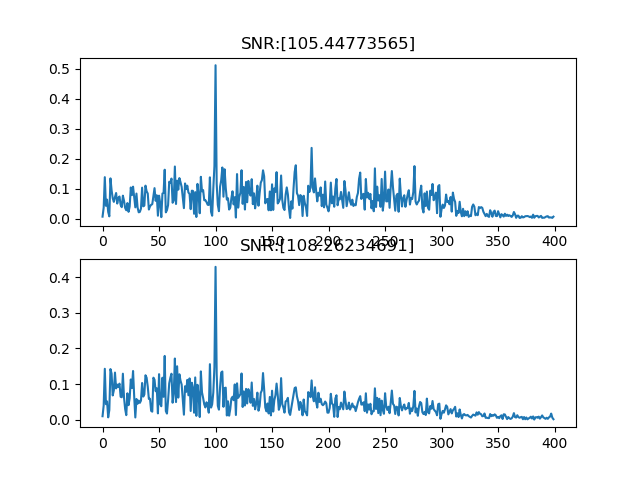
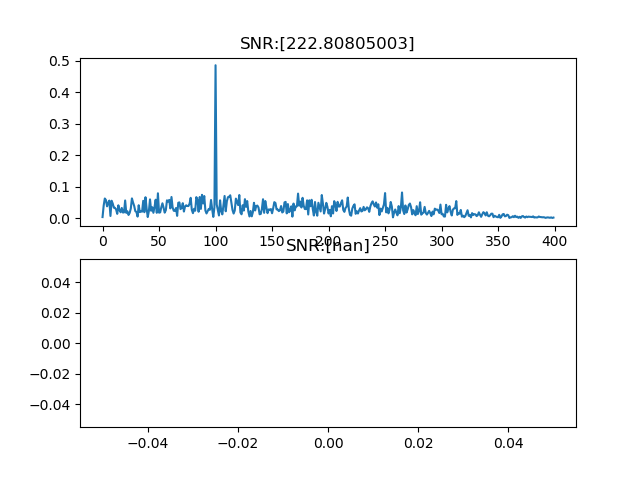
1110

diff --git a/demo.py b/demo.py
@@ -5,7 +5,7 @@ from scipy.optimize import minimize_scalar
 from mpl_toolkits.mplot3d import Axes3D
 from sko.ASFA import ASFA
 import funs
-DUR = 60*20
+DUR = 60*1
 FS = 10000
 N = int(DUR * FS)
 t = np.arange(N) / FS
@@ -14,11 +14,31 @@ FP = 300
 N_VIEW = 8
 D = 8 * 40
 A = 0.5
-a = 1
+a = 10000
 b = a
-SNR = -40
+SNR = -20
 W = 10000
 S = 10000
+
+
+def srU(a,b,x):
+    return -a*x + b * x**3
+
+def srDuf(a,b,k,h,sig,f):
+    y = np.zeros(len(sig))
+    x = np.zeros(len(sig))
+    for i in range(len(y) - 1):
+        K1 = h * y[i]
+        L1 = h * (-k * y[i] - f(a,b,x[i]) + sig[i])
+        K2 = h * (y[i] + L1 / 2)
+        L2 = h * (-k * (y[i] + L1 / 2) - f(a,b,x[i] + K1 / 2) + sig[i])
+        K3 = h * (y[i] + L2 / 2)
+        L3 = h * (-k * (y[i] + L2 / 2) - f(a,b,x[i] + K2 / 2) + sig[i + 1])
+        K4 = h * (y[i] + L3)
+        L4 = h * (-k * (y[i] + L3) - f(a,b,x[i] + K3) + sig[i + 1])
+        x[i + 1] = x[i] + 1 / 6 * (K1 + 2 * K2 + 2 * K3 + K4)
+        y[i + 1] = y[i] + 1 / 6 * (L1 + 2 * L2 + 2 * L3 + L4)
+    return x
 
 def srFun(a,b,h,sig):
 
@@ -41,7 +61,7 @@ def srFunMine(a,b,h,sig):
 def getSig(t,F0,FP,FS,SNR):
     x0 = np.sin(2*np.pi*F0*t)
     ns = np.random.randn(N)
-    ns = funs.butter_lowpass_filter(ns,10,FP,FS)
+    ns = funs.butter_filter(ns,10,FP,FS,'lowpass')
     ns = ns - np.mean(ns)
 
     sigPower = 1 / N * np.sum(x0 * x0)
@@ -120,21 +140,26 @@ def selIMF(imfs,sig):
 def snr(x,n):
     return 10 * np.log10(np.sum(x**2) / np.sum(n ** 2))
 
+
+def lineMap(mi,mx,sig):
+    return (sig - np.min(sig)) / (np.max(sig) - np.min(sig)) * (mx - mi) + mi
+
+
 def test():
     x0, n0 = getSig(t, F0, FP, FS, SNR)
-    # x0 = A * np.sin(2*np.pi*F0*t)
-    # n0 =  np.sqrt(D * 2) * np.random.rand(len(x0))
-    # n0 = n0 - np.mean(n0)
-
-    # res = optimize.minimize(goalFuncPSO,(a,b),bounds=((.001,10),(.001,10)))
-    # print(res)
-    # print(goalFunc((a,b),FS,x0,n0))
-    # sig = np.random.randn(len(t)) * 100#np.sin(2 * np.pi * F0 * t) * 1000
     sig = n0 + x0
+    
+    # sig = funs.butter_filter(sig,4,(60,150),FS,'bandpass')
     sig = getAcmSig(sig,W,S)
+    
     # sig = sig / np.std(sig) * 2
-    sig = np.sqrt(a ** 3 / b) / np.std(sig) * sig
+    # sig = lineMap(-1,1,sig) * np.sqrt(4 * a ** 3 / b) * 100000000
+    sig = lineMap(-1,1,sig) * np.sqrt(4 * a ** 3 / b / 27) * 40
+    sig = sig - np.mean(sig)
+    # sig = sig * np.sqrt(4 * a ** 3 / b) #np.sqrt(a ** 3 / b) / np.std(sig) * sig *3
+    # sr = srDuf(a,b,0.01,1/FS,sig,srU)
     sr = srFun(a,b,1/FS,sig)
+    # sr = getAcmSig(sr,W,S)
     # showInT(sig, FS)
     # showInF(sig, 0.2, FS)
 
@@ -193,20 +218,21 @@ def exploreWithA():
     sig = getAcmSig(sig,W,S)
     
     gStart = 1
-    gStop = 51
-    gStep = 2
+    gStop = 41
+    gStep = .5
     gS = np.arange(gStart,gStop,gStep)
     
     aStart = 1
-    aStop = 601
-    aStep = 20
+    aStop = 701
+    aStep = 10
     aS = np.arange(aStart,aStop,aStep)
     rec = np.zeros((len(aS),len(gS)))
     for ai in range(len(aS)):
         for gi in range(len(gS)):
             aa = aS[ai]
             gg = gS[gi]
-            sig1 = np.sqrt(aa ** 3 / aa)  * sig / np.std(sig) * gg
+            sig1 = lineMap(-1,1,sig) * np.sqrt(4 * aa ** 3 / aa) * gg
+            # sig1 = np.sqrt(aa ** 3 / aa)  * sig / np.std(sig) * gg
             sr = srFun(aa,aa,1 / FS,sig1)
             rec[ai][gi] = (float(snrInF(sr,F0,FS)))
             # rec.append(float(snrInF(sr,F0,FS)))
@@ -230,7 +256,7 @@ def exploreWithA():
     # plt.plot(aS,rec)
     # plt.plot(aS,np.ones(len(rec)) * float(snrInF(sig,F0,FS)))
     # plt.title("Max Loc:{},Max Gain:{}".format(aS[maxL],rec[maxL] / float(snrInF(sig,F0,FS))))
-    # plt.show()
+    plt.show()
         
 if __name__ == "__main__":
-    exploreWithA()
+    test()

diff --git a/dynamicPlot.py b/dynamicPlot.py
@@ -1,0 +1,36 @@
+import matplotlib.pyplot as plt
+import matplotlib.font_manager as font_manager
+import numpy as np
+ 
+POINTS = 100
+sin_list = [0] * POINTS
+indx = 0
+ 
+fig, ax = plt.subplots()
+ax.set_ylim([-2, 2])
+ax.set_xlim([0, POINTS])
+ax.set_autoscale_on(False)
+ax.set_xticks(range(0, 100, 10))
+ax.set_yticks(range(-2, 3, 1))
+ax.grid(True)
+ 
+line_sin, = ax.plot(range(POINTS), sin_list, label='Sin() output', color='cornflowerblue')
+ax.legend(loc='upper center', ncol=4, prop=font_manager.FontProperties(size=10))
+ 
+ 
+def sin_output(ax):
+    global indx, sin_list, line_sin
+    if indx == 20:
+        indx = 0
+    indx += 1
+ 
+    sin_list = sin_list[1:] + [np.sin((indx / 10) * np.pi)]
+    line_sin.set_ydata(sin_list)
+    ax.draw_artist(line_sin)
+    ax.figure.canvas.draw()
+ 
+ 
+timer = fig.canvas.new_timer(interval=100)
+timer.add_callback(sin_output, ax)
+timer.start()
+plt.show()

diff --git a/funs.py b/funs.py
@@ -15,8 +15,13 @@ def choose_windows(name,N):
 
 
 
-def butter_lowpass_filter(data, order, cutoff, FS):
-    b,a = butter(order,2 * cutoff / FS,'low')
+def butter_filter(data, order, cutoff, FS,type):
+    if type == 'lowpass' or type == 'highpass':
+        b,a = butter(order,2 * cutoff / FS,type)
+    elif type == 'bandpass':
+        b,a = butter(order,(2 * cutoff[0] / FS, 2 * cutoff[1] / FS),type)
+    else :
+        return None
     return lfilter(b,a,data)
 
 

diff --git a/doc.md b/doc.md
@@ -1,5 +1,5 @@
 ### 随机共振
-随机共振的动力学描述如下，当$x=\sqrt{\frac{a}{b}}或x=-\sqrt{\frac{a}{b}}$，$ax-bx^3=0$,当$s(t)+n(t)$的幅度没有特别大的情况下，如果$s(t)+n(t)>0$,短时间$x$会递增，但很快$-bx^3$会起作用使$x$得导数变为负数，使$x$的输出降下来，此时$x$会在正稳态点$\sqrt{\frac{a}{b}}$附近小幅度震荡。
+随机共振的动力学描述如下，当$x=\sqrt{\frac{a}{b}}或x=-\sqrt{\frac{a}{b}}$，$ax-bx^3=0$,当$s(t)+n(t)$的幅度没有特别大的情况下，如果$s(t)+n(t)>0$,短时间$x$会递增，但很快$-bx^3$会起作用使$x$得导数变为负数，使$x$的输出降下来，此时$x$会在正稳态点$\sqrt{\frac{a}{b}}$附近小幅度震荡。在负稳态点处同理。随机共振系统可以将高频能量向低频能量转移，个人认为是在解微分方程的时候，对原信号的积分导致的这一现象，对于一直波动的信号，积分后信号的变化频率不会快于原信号变化的频率。
 $$x^{'}=ax-bx^3+s(t)+n(t)$$
 
 输入信号幅度1：
@@ -7,6 +7,20 @@ $$x^{'}=ax-bx^3+s(t)+n(t)$$
 
 输入信号幅度10：
 ![](2019-11-06-15-24-00.png)
+
+输入信号幅度100：
+![](2019-11-06-15-30-08.png)
+
+输入信号幅度1000(已经开始震荡)：
+![](2019-11-06-15-33-47.png)
+
+注：randn()为-1到1 之间的随机数
+输入信号为randn() * 1
+![](2019-11-06-15-49-01.png)
+输入信号为randn() * 10
+![](2019-11-06-15-53-29.png)
+输入信号为randn() * 100(开始震荡)
+![](2019-11-06-15-57-57.png)
 
 ### 关于时间长度对于信号检测性能影响的分析
 FFT公式:
